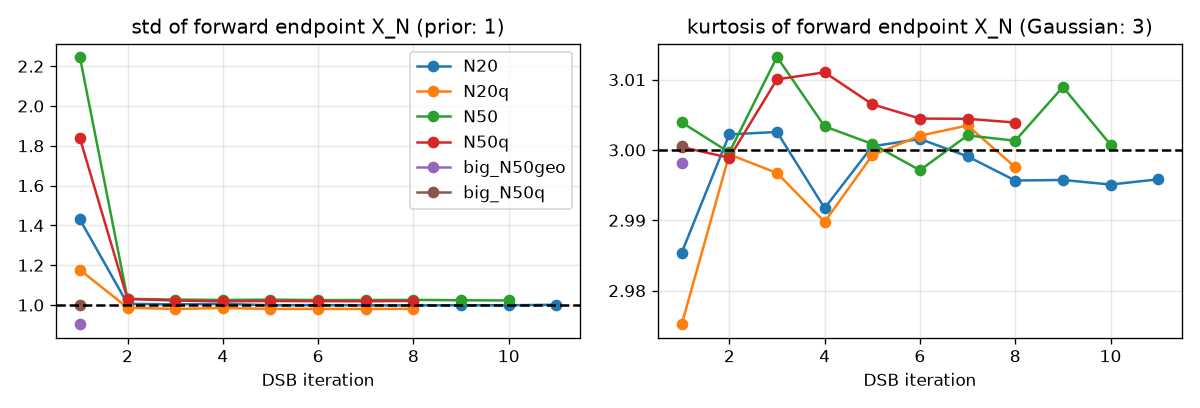
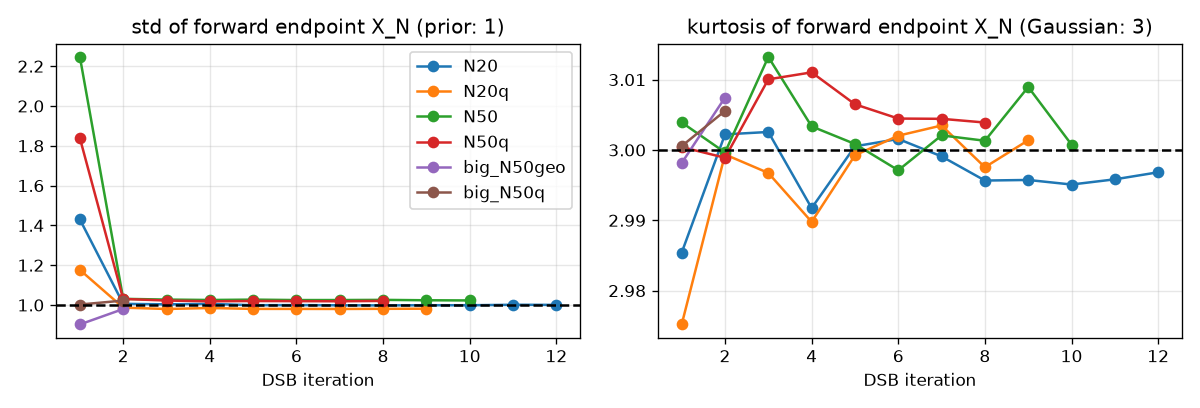
README: FID update (big run 113 -> 71 after one DSB iteration)

diff --git a/README.md b/README.md
@@ -215,16 +215,17 @@ were still training when this snapshot was taken (see *Status* below).
 | DSB iteration | N20 | N20q | N50 | N50q | big_N50geo | big_N50q |
 |---|---|---|---|---|---|---|
 | 1 | 309.0 | 271.0 | 188.5 | 137.3 | 185.9 | 113.4 |
-| 2 | 280.1 | 243.9 | 157.0 | 119.4 |  |  |
+| 2 | 280.1 | 243.9 | 157.0 | 119.4 | 153.6 | 70.8 |
 | 3 | 262.2 | 233.3 | 155.7 | 124.2 |  |  |
 | 4 | 259.1 | 232.2 | 154.5 | 125.2 |  |  |
 | 5 | 243.1 | 215.6 | 153.8 | 116.0 |  |  |
 | 6 | 236.8 | 214.6 | 151.4 | 119.8 |  |  |
 | 7 | 228.8 | 205.1 | 153.1 | 118.9 |  |  |
-| 8 | 229.0 | 200.9 | 150.6 |  |  |  |
-| 9 | 222.9 |  | 150.3 |  |  |  |
+| 8 | 229.0 | 200.9 | 150.6 | 120.2 |  |  |
+| 9 | 222.9 | 194.0 | 150.3 |  |  |  |
 | 10 | 225.0 |  | 155.2 |  |  |  |
 | 11 | 217.0 |  |  |  |  |  |
+| 12 | 210.2 |  |  |  |  |  |
 
 ![fid](figures/cifar_fid.png)
 
@@ -239,7 +240,10 @@ What the numbers show:
   the paper's linear ramp by 50 FID points at N = 50 (137 vs 188 after one iteration, 119 vs 157
   after two) because of the last-step speckle explained above.
 * **Compute and model size**: the 36M-parameter network trained on 6 GPUs with 6× the batch
-  reaches FID 113 after the first half-step alone, versus 137 for the 9M network on one GPU.
+  reaches FID 113 after the first half-step alone, versus 137 for the 9M network on one GPU, and
+  **71 after the first full DSB iteration** — the single largest improvement from one IPF
+  iteration in all runs, i.e. the bridge correction pays off most when the networks have the
+  capacity to represent it.
 * The gain per iteration flattens after 5-8 iterations at this training budget (8-10k steps per
   half-step); the paper's Figure 6 shows the same saturation.
 

diff --git a/figures/fid_table.md b/figures/fid_table.md
@@ -1,13 +1,14 @@
 | DSB iteration | N20 | N20q | N50 | N50q | big_N50geo | big_N50q |
 |---|---|---|---|---|---|---|
 | 1 | 309.0 | 271.0 | 188.5 | 137.3 | 185.9 | 113.4 |
-| 2 | 280.1 | 243.9 | 157.0 | 119.4 |  |  |
+| 2 | 280.1 | 243.9 | 157.0 | 119.4 | 153.6 | 70.8 |
 | 3 | 262.2 | 233.3 | 155.7 | 124.2 |  |  |
 | 4 | 259.1 | 232.2 | 154.5 | 125.2 |  |  |
 | 5 | 243.1 | 215.6 | 153.8 | 116.0 |  |  |
 | 6 | 236.8 | 214.6 | 151.4 | 119.8 |  |  |
 | 7 | 228.8 | 205.1 | 153.1 | 118.9 |  |  |
-| 8 | 229.0 | 200.9 | 150.6 |  |  |  |
-| 9 | 222.9 |  | 150.3 |  |  |  |
+| 8 | 229.0 | 200.9 | 150.6 | 120.2 |  |  |
+| 9 | 222.9 | 194.0 | 150.3 |  |  |  |
 | 10 | 225.0 |  | 155.2 |  |  |  |
 | 11 | 217.0 |  |  |  |  |  |
+| 12 | 210.2 |  |  |  |  |  |
